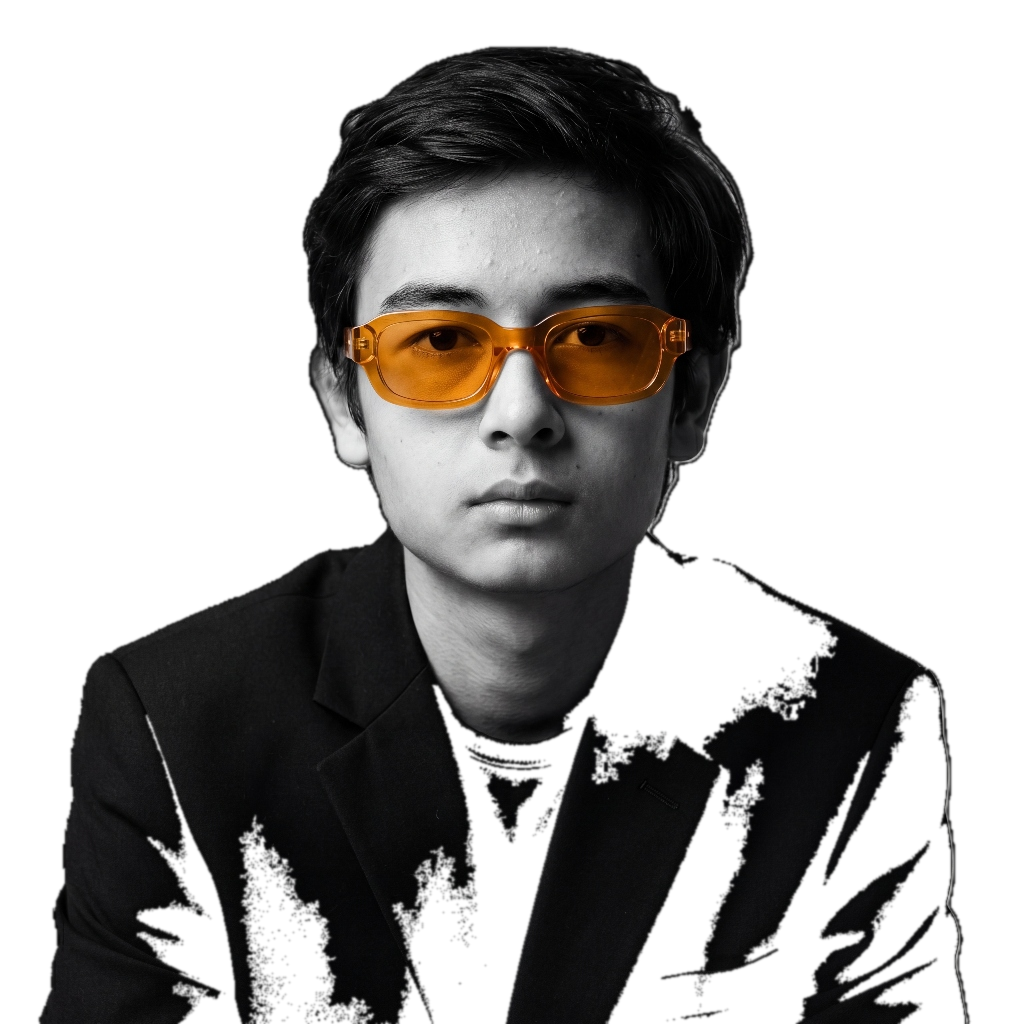
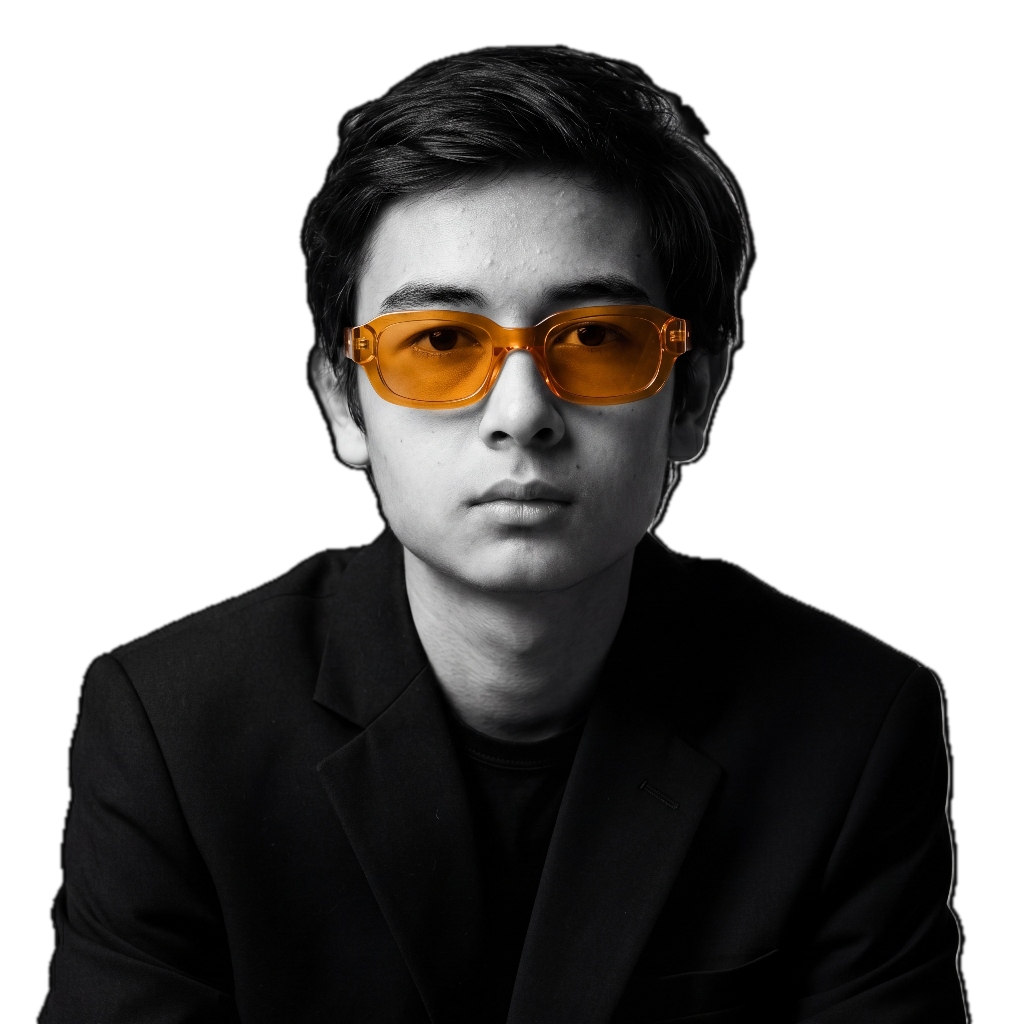
fix(mobile): anchor portrait flush to bottom divider line, eliminate green bleed on clothes, optimize mobile UX and scroll performance

diff --git a/css/responsive.css b/css/responsive.css
@@ -202,8 +202,10 @@ html, body {
     min-height: auto !important;
     max-height: none !important;
     padding-top: 84px !important;
-    padding-bottom: 36px !important;
-    overflow: visible !important;
+    padding-bottom: 0 !important;
+    border-bottom: 1px solid rgba(255, 255, 255, 0.08) !important;
+    overflow: hidden !important;
+    position: relative !important;
   }
 
   .hero-inner-container {
@@ -216,6 +218,7 @@ html, body {
     text-align: center !important;
     gap: 0 !important;
     position: relative !important;
+    padding-bottom: 0 !important;
   }
 
   /* Top Header Stack */
@@ -299,15 +302,16 @@ html, body {
     transform: none !important;
   }
 
-  /* Mobile Intro & CTA Buttons (Sequentially below headline) */
+  /* Mobile Intro & CTA Buttons (Left-aligned exactly like Reference Image 2) */
   .hero-mobile-intro {
     display: flex !important;
     flex-direction: column !important;
-    align-items: center !important;
-    text-align: center !important;
+    align-items: flex-start !important;
+    text-align: left !important;
     width: 100% !important;
-    max-width: 340px !important;
-    margin: 14px auto 0 !important;
+    max-width: 100% !important;
+    margin: 18px 0 0 0 !important;
+    padding: 0 4px !important;
     z-index: 10 !important;
     position: relative !important;
   }
@@ -317,14 +321,16 @@ html, body {
     line-height: 1.52 !important;
     color: rgba(255, 255, 255, 0.85) !important;
     margin-bottom: 18px !important;
-    text-align: center !important;
+    text-align: left !important;
+    max-width: 330px !important;
   }
 
   .hero-mobile-intro .hero-btn-group {
     display: flex !important;
-    justify-content: center !important;
+    justify-content: flex-start !important;
     align-items: center !important;
     gap: 10px !important;
+    width: 100% !important;
   }
 
   .btn-talk-pill {
@@ -340,81 +346,79 @@ html, body {
     border-radius: 12px !important;
   }
 
-  /* Cutout Portrait (Sequentially below CTA buttons with green aura) */
+  /* Cutout Portrait (Seated directly and cleanly flush on bottom line, matching Image 2) */
   .hero-portrait-stage {
     position: relative !important;
-    bottom: auto !important;
+    bottom: 0 !important;
     left: auto !important;
     transform: none !important;
-    width: 88% !important;
-    max-width: 320px !important;
-    margin: 22px auto 0 !important;
+    width: 100% !important;
+    max-width: 360px !important;
+    margin: 24px auto 0 !important;
+    padding-bottom: 0 !important;
     z-index: 2 !important;
     display: flex !important;
     justify-content: center !important;
-    align-items: center !important;
+    align-items: flex-end !important;
+    align-self: center !important;
+    line-height: 0 !important;
   }
 
   .hero-portrait-stage img {
     width: 100% !important;
     height: auto !important;
-    max-height: 380px !important;
+    max-height: 420px !important;
     object-fit: contain !important;
+    display: block !important;
+    vertical-align: bottom !important;
+    margin-bottom: 0 !important;
+    filter: drop-shadow(0 15px 35px rgba(0, 0, 0, 0.8)) !important;
+    animation: heroPortraitEntranceMob 0.9s cubic-bezier(0.16, 1, 0.3, 1) 0.1s both !important;
   }
 
+  @keyframes heroPortraitEntranceMob {
+    0% {
+      transform: translateY(50px);
+      opacity: 0;
+    }
+    100% {
+      transform: translateY(0);
+      opacity: 1;
+    }
+  }
+
+  /* Green glow aura situated behind left shoulder, matching Image 2 */
   .hero-glow-field {
     width: 340px !important;
     height: 340px !important;
-    bottom: 20px !important;
-    left: 50% !important;
-    transform: translateX(-50%) !important;
+    bottom: 0 !important;
+    left: -80px !important;
+    transform: none !important;
+    background: radial-gradient(circle at 35% 65%, rgba(62, 255, 28, 0.38) 0%, rgba(62, 255, 28, 0.12) 45%, transparent 70%) !important;
     filter: blur(55px) !important;
-    opacity: 0.7 !important;
+    opacity: 0.8 !important;
+    pointer-events: none !important;
+    z-index: 1 !important;
+    will-change: transform;
   }
 
-  /* Bottom Content Row (Hide desktop left CTA; center right happy clients) */
+  /* Bottom Content Row (Hidden on mobile so portrait sits directly on border line) */
   .hero-bottom-grid {
-    display: flex !important;
-    flex-direction: column !important;
-    align-items: center !important;
-    text-align: center !important;
-    width: 100% !important;
-    padding-bottom: 16px !important;
-    margin-top: 14px !important;
-  }
-
-  .hero-bottom-left {
     display: none !important;
   }
 
-  .hero-bottom-right {
-    display: flex !important;
-    flex-direction: column !important;
-    align-items: center !important;
-    text-align: center !important;
-    gap: 8px !important;
-    width: 100% !important;
-  }
-
-  .hero-clients-stack {
-    display: flex !important;
-    align-items: center !important;
-    justify-content: center !important;
-    gap: 12px !important;
-  }
-
-  .hero-clients-stack .avatar-group img {
-    width: 36px !important;
-    height: 36px !important;
-    margin-left: -10px !important;
-  }
-
-  .hero-clients-stack .stat-count {
-    font-size: 28px !important;
-  }
-
-  .hero-clients-label {
-    font-size: 14px !important;
+  /* Touch & UX responsiveness enhancements (0ms tap lag, buttery scroll) */
+  button, 
+  a, 
+  .mob-link, 
+  .nav-toggle-circle, 
+  .lang-btn, 
+  .btn-talk-pill, 
+  .btn-arrow-pill, 
+  .faq-card-top, 
+  .service-top-v2 {
+    touch-action: manipulation;
+    -webkit-tap-highlight-color: transparent;
   }
 
   /* 3. Stats Ticker Bar */
@@ -663,9 +667,21 @@ html, body {
    EXTRA SMALL MOBILE (<= 420px)
    ========================================================================== */
 @media (max-width: 420px) {
-  .hero-h1-top,
+  .hero-h1-top {
+    font-size: clamp(24px, 7vw, 30px) !important;
+  }
+
   .hero-h1-bot {
-    font-size: clamp(30px, 8.5vw, 38px) !important;
+    font-size: clamp(22px, 6.4vw, 28px) !important;
+  }
+
+  .hero-portrait-stage {
+    max-width: 320px !important;
+    margin-top: 18px !important;
+  }
+
+  .hero-portrait-stage img {
+    max-height: 360px !important;
   }
 
   .btn-talk-pill {

diff --git a/js/main.js b/js/main.js
@@ -126,6 +126,7 @@ function initScrollReveal() {
   const revealElements = document.querySelectorAll('.reveal');
   if (!revealElements.length) return;
 
+  const isMobile = window.innerWidth <= 810;
   const observer = new IntersectionObserver((entries, obs) => {
     entries.forEach(entry => {
       if (entry.isIntersecting) {
@@ -134,8 +135,8 @@ function initScrollReveal() {
       }
     });
   }, {
-    threshold: 0.15,
-    rootMargin: '0px 0px -40px 0px'
+    threshold: isMobile ? 0.02 : 0.12,
+    rootMargin: isMobile ? '0px 0px 80px 0px' : '0px 0px -30px 0px'
   });
 
   revealElements.forEach(el => observer.observe(el));
